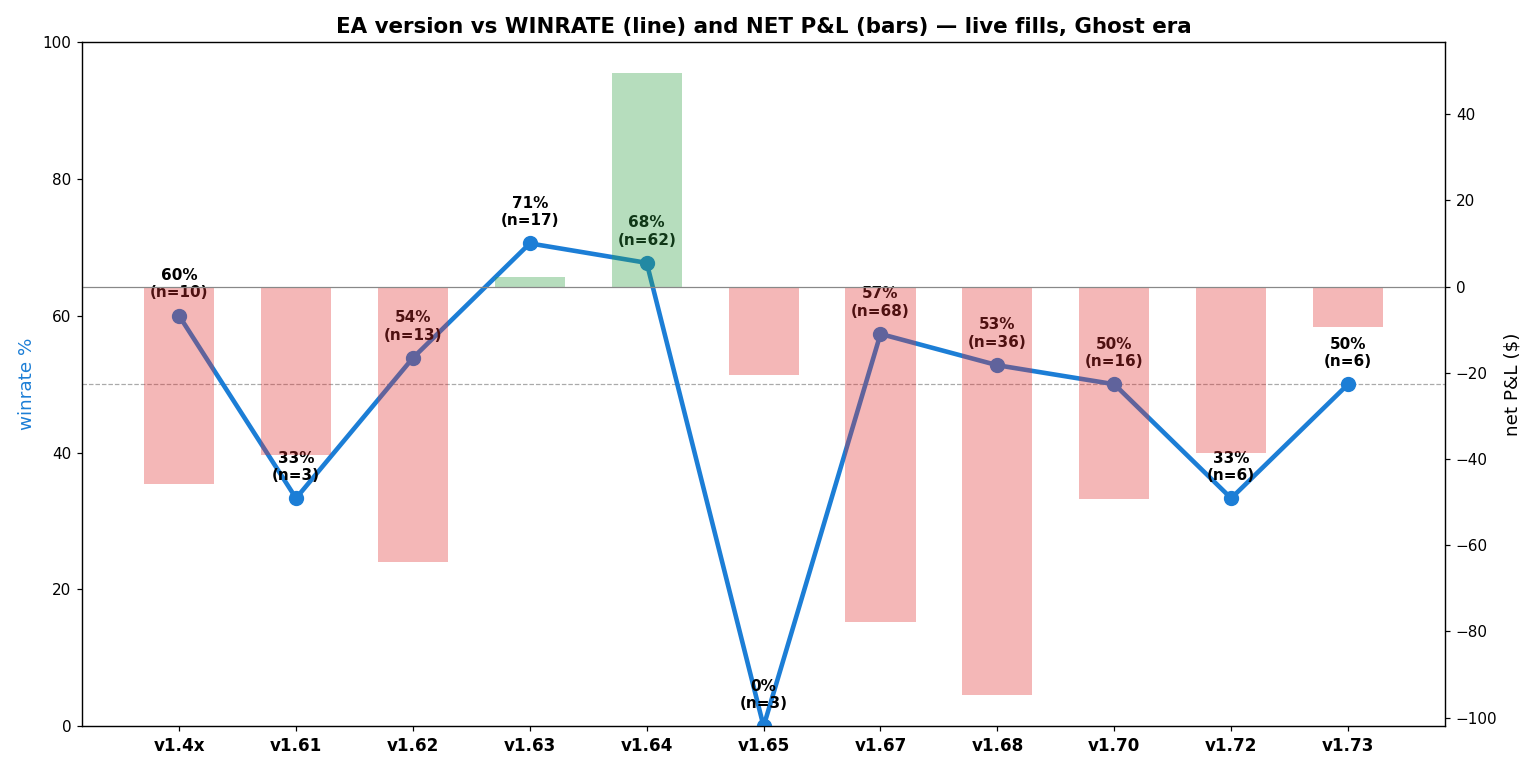
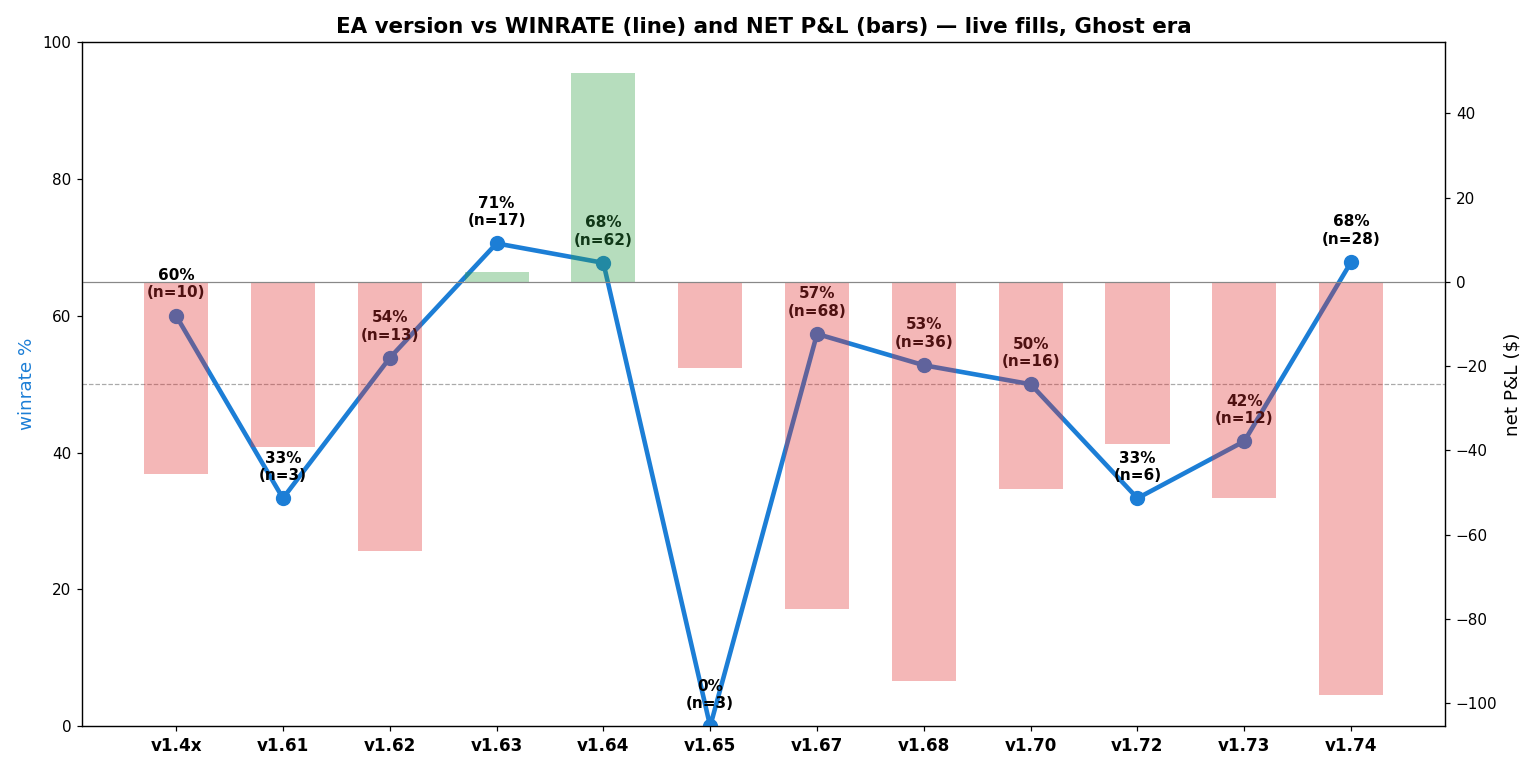
🌐 COCKPIT PARITY ON THE WEB (Zee): claudezeeshan.com now has the same buttons and pictures as the desktop cockpit — 👀 Setup forming now and 📊 Versions beside the trend buttons, plus a 🔍 forensic link on every trade row. Each opens an in-page viewer showing the setup panel AND the circumstances panel

diff --git a/dashboard/claude_trader/server.js b/dashboard/claude_trader/server.js
@@ -734,7 +734,7 @@ const server = http.createServer(async (req, res) => {
 
   if (host === 'claudezeeshan.com' || host === 'www.claudezeeshan.com') {
     const apexUrl = req.url.split('?')[0];
-    if (apexUrl !== '/' && apexUrl !== '/status' && apexUrl !== '/api/status' && apexUrl !== '/api/canonical-status' && apexUrl !== '/api/weekly' && apexUrl !== '/api/achievements' && apexUrl !== '/api/today-trades' && apexUrl !== '/api/camel.png' && apexUrl !== '/api/ghost-state' && apexUrl !== '/api/trend-call' && apexUrl !== '/api/dashboard-message' && apexUrl !== '/api/dashboard-messages' && apexUrl !== '/api/claude-reply' && apexUrl !== '/zee-chat' && apexUrl !== '/api/zee-chat' && apexUrl !== '/api/zee-chat/send' && apexUrl !== '/api/harvest' && apexUrl !== '/api/harvest-lock' && apexUrl !== '/api/runtime-config' && apexUrl !== '/grab' && apexUrl !== '/ws' && apexUrl !== '/api/watchdog' && apexUrl !== '/home' && apexUrl !== '/docs' && !apexUrl.startsWith('/api/home/') && apexUrl !== '/api/home/whoami' && apexUrl !== '/api/home/auth' && apexUrl !== '/api/home/logout') {
+    if (apexUrl !== '/' && apexUrl !== '/status' && apexUrl !== '/api/status' && apexUrl !== '/api/canonical-status' && apexUrl !== '/api/weekly' && apexUrl !== '/api/achievements' && apexUrl !== '/api/today-trades' && apexUrl !== '/api/camel.png' && apexUrl !== '/api/forming.png' && apexUrl !== '/api/context-now.png' && apexUrl !== '/api/versions.png' && apexUrl !== '/api/forensic.png' && apexUrl !== '/api/ghost-state' && apexUrl !== '/api/trend-call' && apexUrl !== '/api/dashboard-message' && apexUrl !== '/api/dashboard-messages' && apexUrl !== '/api/claude-reply' && apexUrl !== '/zee-chat' && apexUrl !== '/api/zee-chat' && apexUrl !== '/api/zee-chat/send' && apexUrl !== '/api/harvest' && apexUrl !== '/api/harvest-lock' && apexUrl !== '/api/runtime-config' && apexUrl !== '/grab' && apexUrl !== '/ws' && apexUrl !== '/api/watchdog' && apexUrl !== '/home' && apexUrl !== '/docs' && !apexUrl.startsWith('/api/home/') && apexUrl !== '/api/home/whoami' && apexUrl !== '/api/home/auth' && apexUrl !== '/api/home/logout') {
       res.writeHead(301, { Location: 'https://me.claudezeeshan.com' + req.url });
       res.end();
       return;
@@ -1930,6 +1930,53 @@ hr { border: none; border-top: 1px solid #25304a; margin: 32px 0; }
 
   // ── Today's trades (broker fills today + currently-open positions) ──
   // ── The Ghost panel (status.html): live camel-humps chart + hunt state ──────
+  // ── COCKPIT PARITY ON THE WEB (Zee 2026-08-07): the same buttons and pictures
+  // the desktop cockpit has — the forming setup, any trade's anatomy + the
+  // circumstances around it, and the version-vs-winrate graph.
+  const PYEXE = 'C:/Users/zeesh/AppData/Local/Programs/Python/Python313-arm64/python.exe';
+  const WEBCH = 'C:/Users/zeesh/Documents/GitHub/turtle/monitor/web_charts.py';
+  const LABELS = 'C:/Users/zeesh/Documents/GitHub/turtle/monitor/setup_labels/';
+  const drawThen = (args, key, cb) => {
+    if (global['_busy_' + key]) return cb();
+    global['_busy_' + key] = true;
+    require('child_process').execFile(PYEXE, [WEBCH].concat(args), { timeout: 90000 },
+      () => { global['_busy_' + key] = false; cb(); });
+  };
+  const sendPng = (file) => {
+    try {
+      res.writeHead(200, { 'Content-Type': 'image/png', 'Cache-Control': 'no-store' });
+      res.end(fs.readFileSync(file));
+    } catch (e) { res.writeHead(404); res.end('not drawn'); }
+  };
+
+  if (url === '/api/forming.png' || url === '/api/context-now.png') {
+    const file = LABELS + (url === '/api/forming.png' ? 'forming_now.png' : 'context_now.png');
+    const age = fs.existsSync(file) ? Date.now() - fs.statSync(file).mtimeMs : Infinity;
+    if (age > 45000) drawThen(['forming'], 'forming', () => sendPng(file));
+    else sendPng(file);
+    return;
+  }
+  if (url === '/api/versions.png') {
+    const file = LABELS + 'version_winrate.png';
+    const age = fs.existsSync(file) ? Date.now() - fs.statSync(file).mtimeMs : Infinity;
+    if (age > 300000) drawThen(['versions'], 'versions', () => sendPng(file));
+    else sendPng(file);
+    return;
+  }
+  // /api/forensic.png?ts=2026.08.07 19:03:34&side=SELL&px=4339.44&panel=setup|context
+  if (url === '/api/forensic.png') {
+    const ts = query.get('ts') || '', side = query.get('side') || '', px = query.get('px') || '0';
+    const panel = query.get('panel') === 'context' ? 'context' : 'setup';
+    if (!/^\d{4}\.\d{2}\.\d{2} \d{2}:\d{2}:\d{2}$/.test(ts) || !/^(BUY|SELL)$/.test(side)) {
+      res.writeHead(400); res.end('bad args'); return;
+    }
+    const stamp = ts.slice(11).replace(/:/g, '');
+    const file = LABELS + (panel === 'context' ? 'context_' : 'forensic_') + stamp + '.png';
+    const age = fs.existsSync(file) ? Date.now() - fs.statSync(file).mtimeMs : Infinity;
+    if (age > 600000) drawThen(['trade', ts, side, px], 'tr' + stamp, () => sendPng(file));
+    else sendPng(file);
+    return;
+  }
   if (url === '/api/camel.png') {
     const png = 'C:\\Users\\zeesh\\Documents\\GitHub\\turtle\\monitor\\setup_labels\\camel_humps.png';
     try {

diff --git a/dashboard/claude_trader/status.html b/dashboard/claude_trader/status.html
@@ -950,11 +950,28 @@ th, td { border-color:#e5e5e7 !important; }
          style="width:100%;border-radius:12px;background:#fff;border:1px solid #e5e5e7;"/>
     <div id="cockpit-row" style="display:flex;flex-wrap:wrap;gap:8px;margin-top:12px;">
       <button onclick="camelRegen()" style="background:#1d1d1f !important;">🔄 Regenerate humps</button>
+      <button onclick="showForming()" style="background:#7048e8 !important;">👀 Setup forming now</button>
+      <button onclick="showVersions()" style="background:#1c7ed6 !important;">📊 Versions</button>
       <button onclick="sendCall('UPTREND')" style="background:#2f9e44 !important;">📈 UPTREND — buy lamps</button>
       <button onclick="sendCall('DOWNTREND')" style="background:#e03131 !important;">📉 DOWNTREND — sell lamps</button>
       <button onclick="sendCall('RANGE')" style="background:#f08c00 !important;">📦 RANGE — ghost waits</button>
     </div>
     <div id="call-status" style="font-size:13px;font-weight:600;margin-top:8px;color:#6e6e73;">…</div>
+    <!-- COCKPIT PARITY (Zee 2026-08-07): the same pictures the desktop cockpit shows —
+         the setup forming, any trade's anatomy, and the circumstances around it. -->
+    <div id="viewer" style="display:none;margin-top:16px;border-top:1px solid #e5e5e7;padding-top:14px;">
+      <div style="display:flex;justify-content:space-between;align-items:center;">
+        <div id="viewer-title" style="font-size:15px;font-weight:700;"></div>
+        <button onclick="document.getElementById('viewer').style.display='none'"
+                style="background:#6e6e73 !important;">✕ close</button>
+      </div>
+      <div id="viewer-note" style="font-size:13px;color:#6e6e73;margin:6px 0;">…</div>
+      <img id="viewer-img1" style="width:100%;border-radius:12px;background:#fff;
+           border:1px solid #e5e5e7;margin-top:8px;"/>
+      <div id="viewer-cap2" style="font-size:14px;font-weight:600;margin-top:14px;"></div>
+      <img id="viewer-img2" style="width:100%;border-radius:12px;background:#fff;
+           border:1px solid #e5e5e7;margin-top:6px;"/>
+    </div>
   </div>
 
   <div class="hero-card" id="hero-card">
@@ -1487,7 +1504,7 @@ async function loadTrades() {
         <div class="t-time">${ts}</div>
         <div class="t-side ${side.toLowerCase()}">${side}</div>
         <div class="t-info">${c.symbol} ${c.volume} @ <b>$${entryDisp}</b> → <b>$${closeDisp}</b><br/><small>${ea} · ${c.comment || 'trail exit'}</small></div>
-        <div class="t-pnl ${pnl >= 0 ? 'win' : 'loss'}">${pnl >= 0 ? '+' : ''}$${pnl.toFixed(2)}<br/><span class="explore-btn" data-detail="${detailId}">Explore →</span></div>
+        <div class="t-pnl ${pnl >= 0 ? 'win' : 'loss'}">${pnl >= 0 ? '+' : ''}$${pnl.toFixed(2)}<br/><span class="explore-btn" data-detail="${detailId}">Explore →</span><br/><span class="explore-btn" style="color:#7048e8;" onclick="event.stopPropagation();showForensic('${c.broker_time}','${side}',${closeDisp})">🔍 forensic</span></div>
       </div>
       <div class="trade-detail" id="${detailId}">${detailHtml}</div>`);
     }
@@ -1594,6 +1611,36 @@ async function sendCall(name) {
   loadGhost();
 }
 function camelRegen() {
+  function openViewer(title, note, cap2, src1, src2) {
+    document.getElementById('viewer').style.display = 'block';
+    document.getElementById('viewer-title').textContent = title;
+    document.getElementById('viewer-note').textContent = note;
+    document.getElementById('viewer-cap2').textContent = cap2 || '';
+    document.getElementById('viewer-img1').src = src1;
+    const i2 = document.getElementById('viewer-img2');
+    if (src2) { i2.style.display = 'block'; i2.src = src2; } else { i2.style.display = 'none'; }
+    document.getElementById('viewer').scrollIntoView({ behavior: 'smooth', block: 'start' });
+  }
+  function showForming() {
+    const t = Date.now();
+    openViewer('👀 The setup forming now',
+               'the UHV under consideration and its trigger lines — the breakout is still to come',
+               '🌄 THE CIRCUMSTANCES NOW — trend, slope and volume right now',
+               '/api/forming.png?t=' + t, '/api/context-now.png?t=' + t);
+  }
+  function showVersions() {
+    openViewer('📊 Version vs winrate',
+               'winrate line and net P&L bars for every EA version — live fills only',
+               '', '/api/versions.png?t=' + Date.now(), '');
+  }
+  function showForensic(ts, side, px) {
+    const q = 'ts=' + encodeURIComponent(ts) + '&side=' + side + '&px=' + px + '&t=' + Date.now();
+    openViewer('🔍 ' + ts + '  ' + side,
+               'the UHV, its trigger lines and the breakout candle that triggered this trade',
+               '🌄 THE CIRCUMSTANCES — trend, slope and volume around this trade',
+               '/api/forensic.png?' + q + '&panel=setup',
+               '/api/forensic.png?' + q + '&panel=context');
+  }
   fetch('/api/camel.png?force=1&t=' + Date.now()).then(() =>
     setTimeout(() => { document.getElementById('camel-img').src = '/api/camel.png?t=' + Date.now(); }, 4000));
 }

diff --git a/monitor/web_charts.py b/monitor/web_charts.py
@@ -1,0 +1,49 @@
+"""web_charts.py — one entry point the dashboard can call to draw any cockpit chart
+(Zee 2026-08-07: "make sure the web page also has same buttons and images as the GUI").
+
+    py monitor/web_charts.py forming            -> forming_now.png + context_now.png
+    py monitor/web_charts.py context-now        -> context_now.png
+    py monitor/web_charts.py versions           -> version_winrate.png
+    py monitor/web_charts.py trade <ts> <side> <exit>   -> forensic_*.png + context_*.png
+
+Prints the produced paths, one per line. Never raises to the caller.
+"""
+import sys
+try:
+    sys.stdout.reconfigure(encoding="utf-8")
+except Exception:  # detached process: sys.stdout is None
+    pass
+from pathlib import Path
+
+sys.path.insert(0, str(Path(__file__).parent))
+
+
+def main():
+    if len(sys.argv) < 2:
+        print("usage: web_charts.py forming|context-now|versions|trade <ts> <side> <exit>")
+        return
+    what = sys.argv[1]
+    import forensic_chart as F
+    if what == "forming":
+        p, msg = F.draw_forming()
+        print(p or "")
+        print(F.draw_context_now() or "" if p else "")
+        print(msg)
+    elif what == "context-now":
+        print(F.draw_context_now() or "")
+    elif what == "versions":
+        import version_winrate as V
+        print(V.build())
+    elif what == "trade":
+        ts, side, px = sys.argv[2], sys.argv[3], float(sys.argv[4])
+        print(F.draw_trade(ts, side, px) or "")
+        print(F.draw_context(ts, side) or "")
+    else:
+        print("unknown: " + what)
+
+
+if __name__ == "__main__":
+    try:
+        main()
+    except Exception as e:            # the web must never see a stack trace
+        print("ERR " + str(e))
